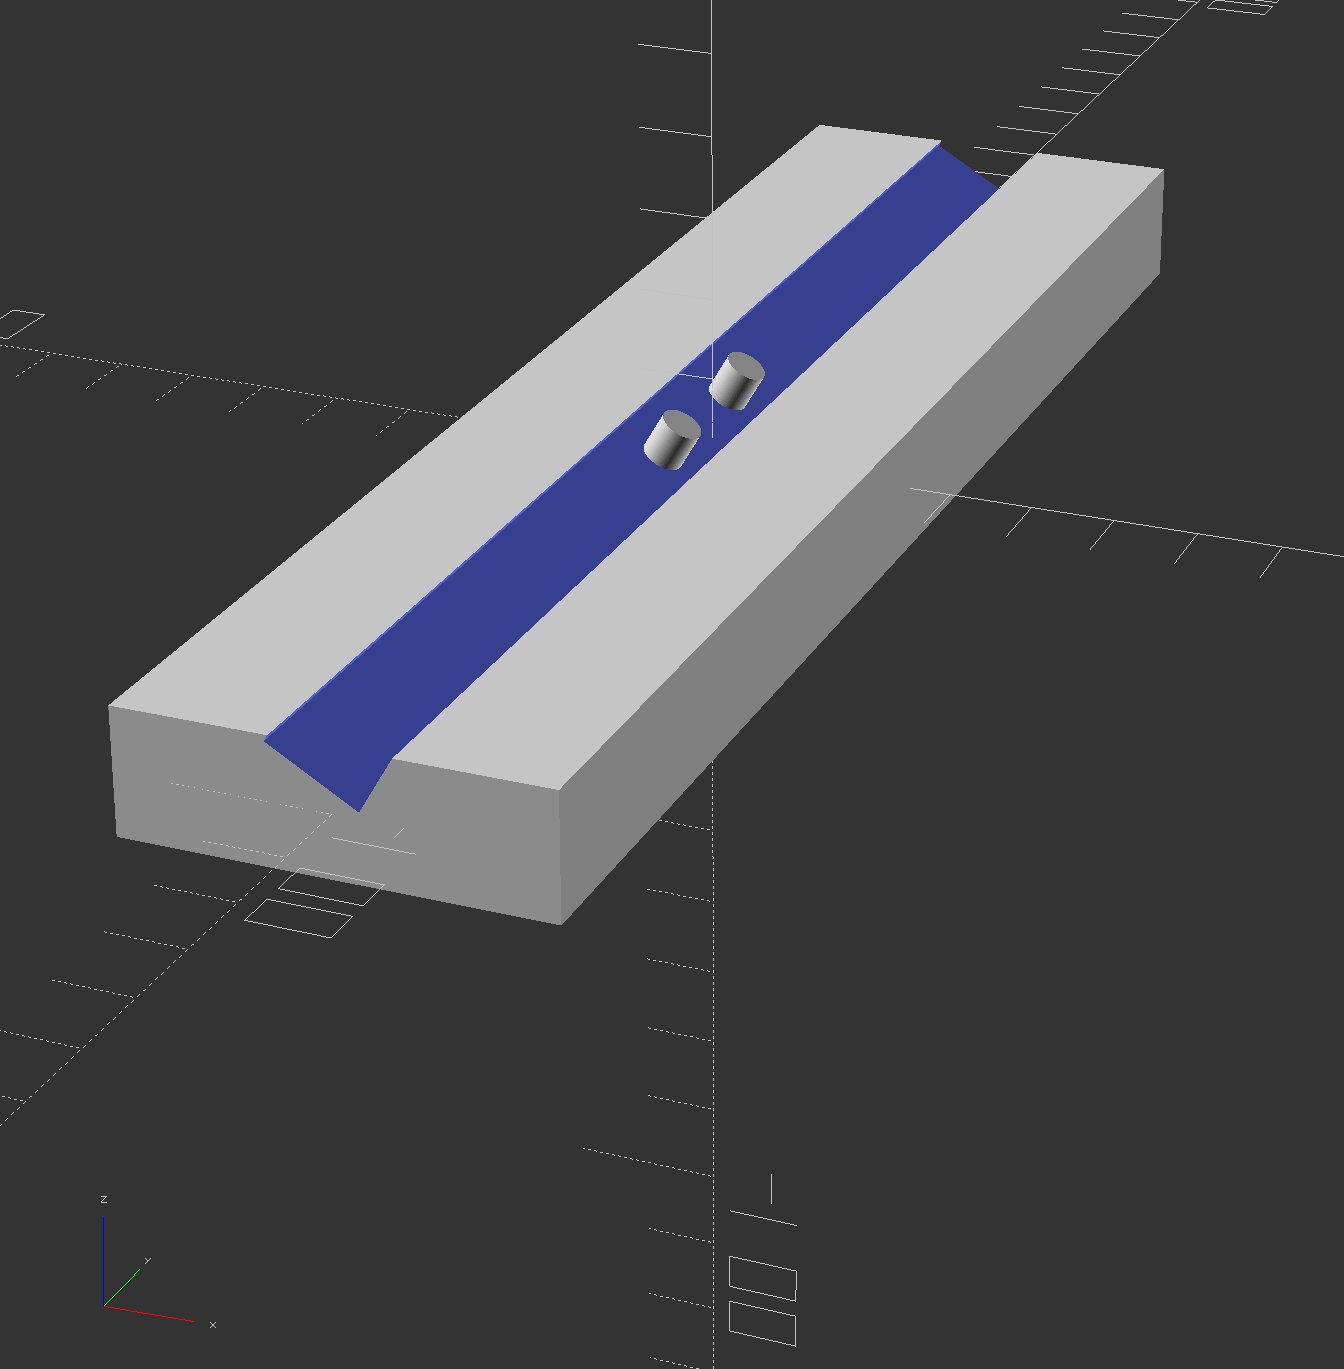
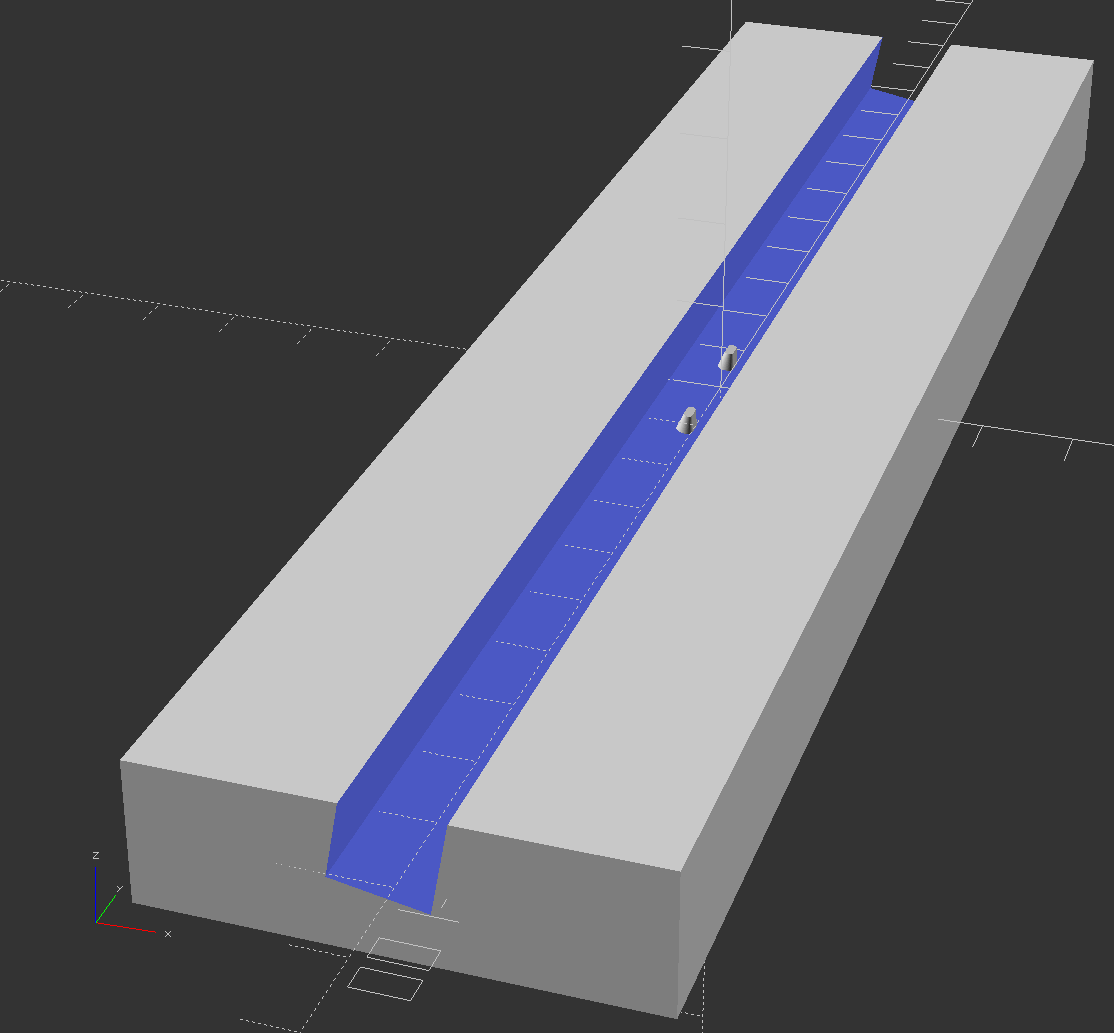
fix dimensions, add better shaped pins

diff --git a/README.md b/README.md
@@ -1,2 +1,4 @@
 # tb-x505f-dock
-gcode files for a dock for a lenovo tb-x505f dock
+OpenSCAD files for a dock for a lenovo tb-x505f dock
+
+![dock render](dock.png)
